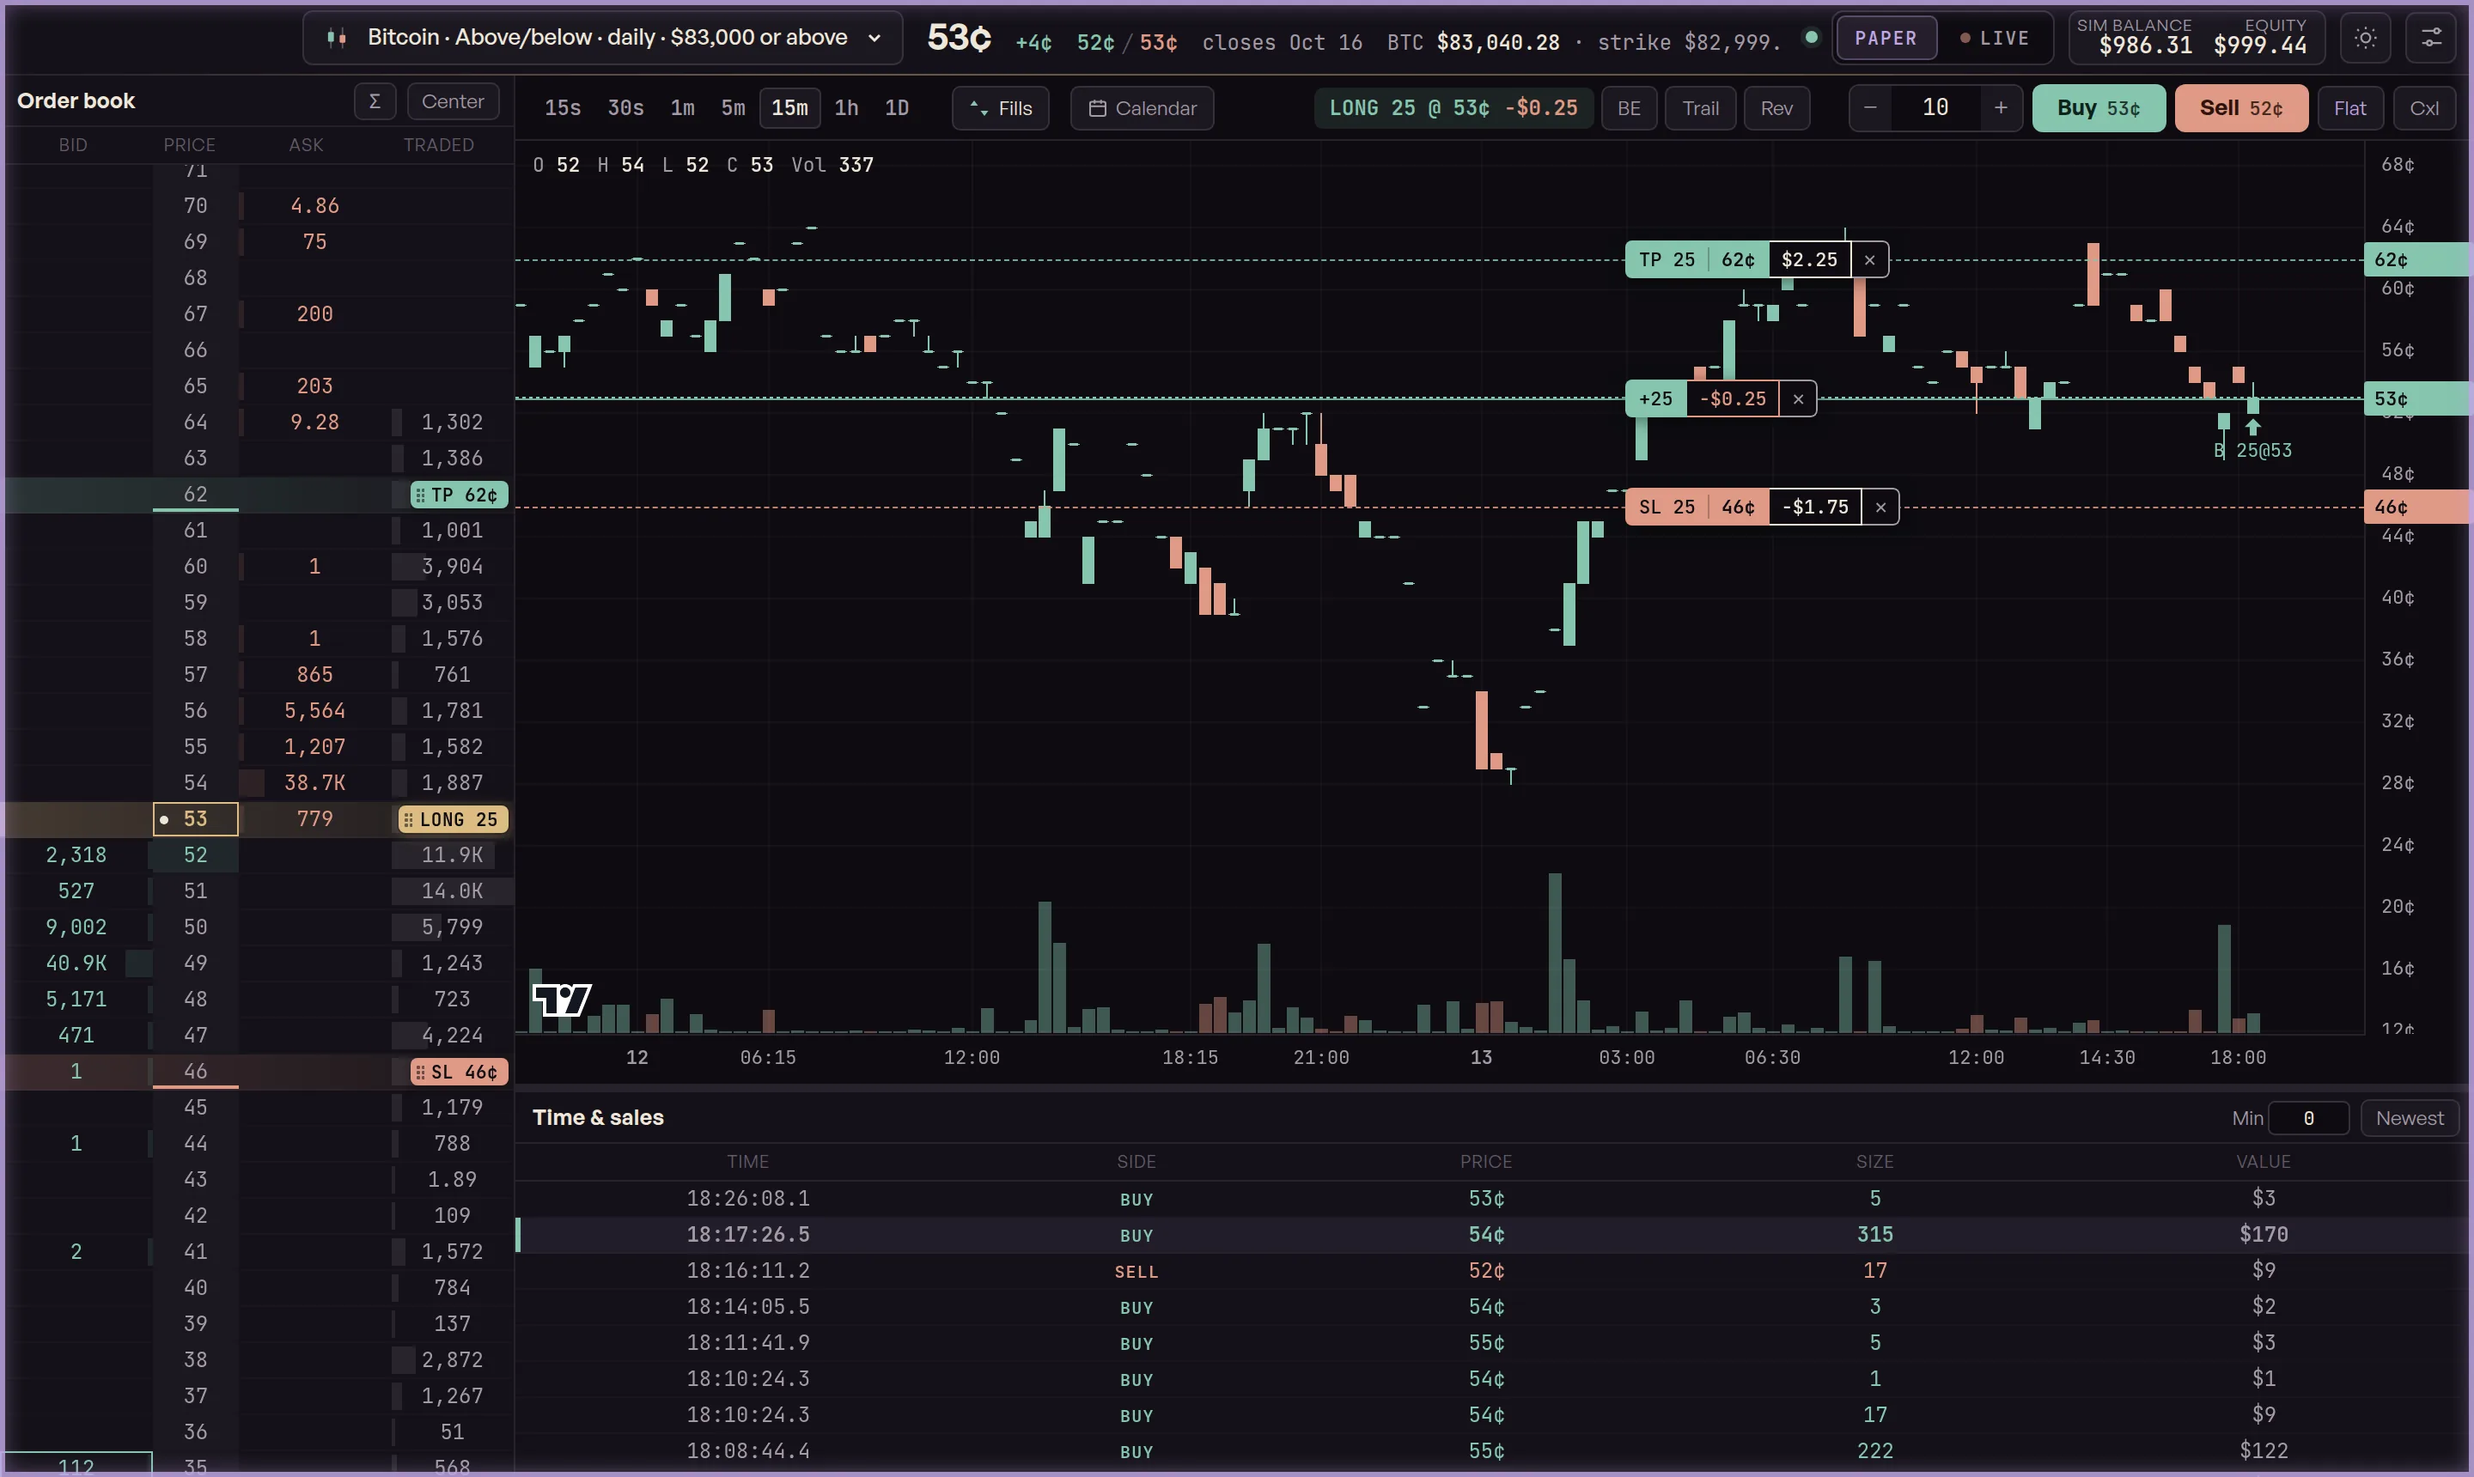
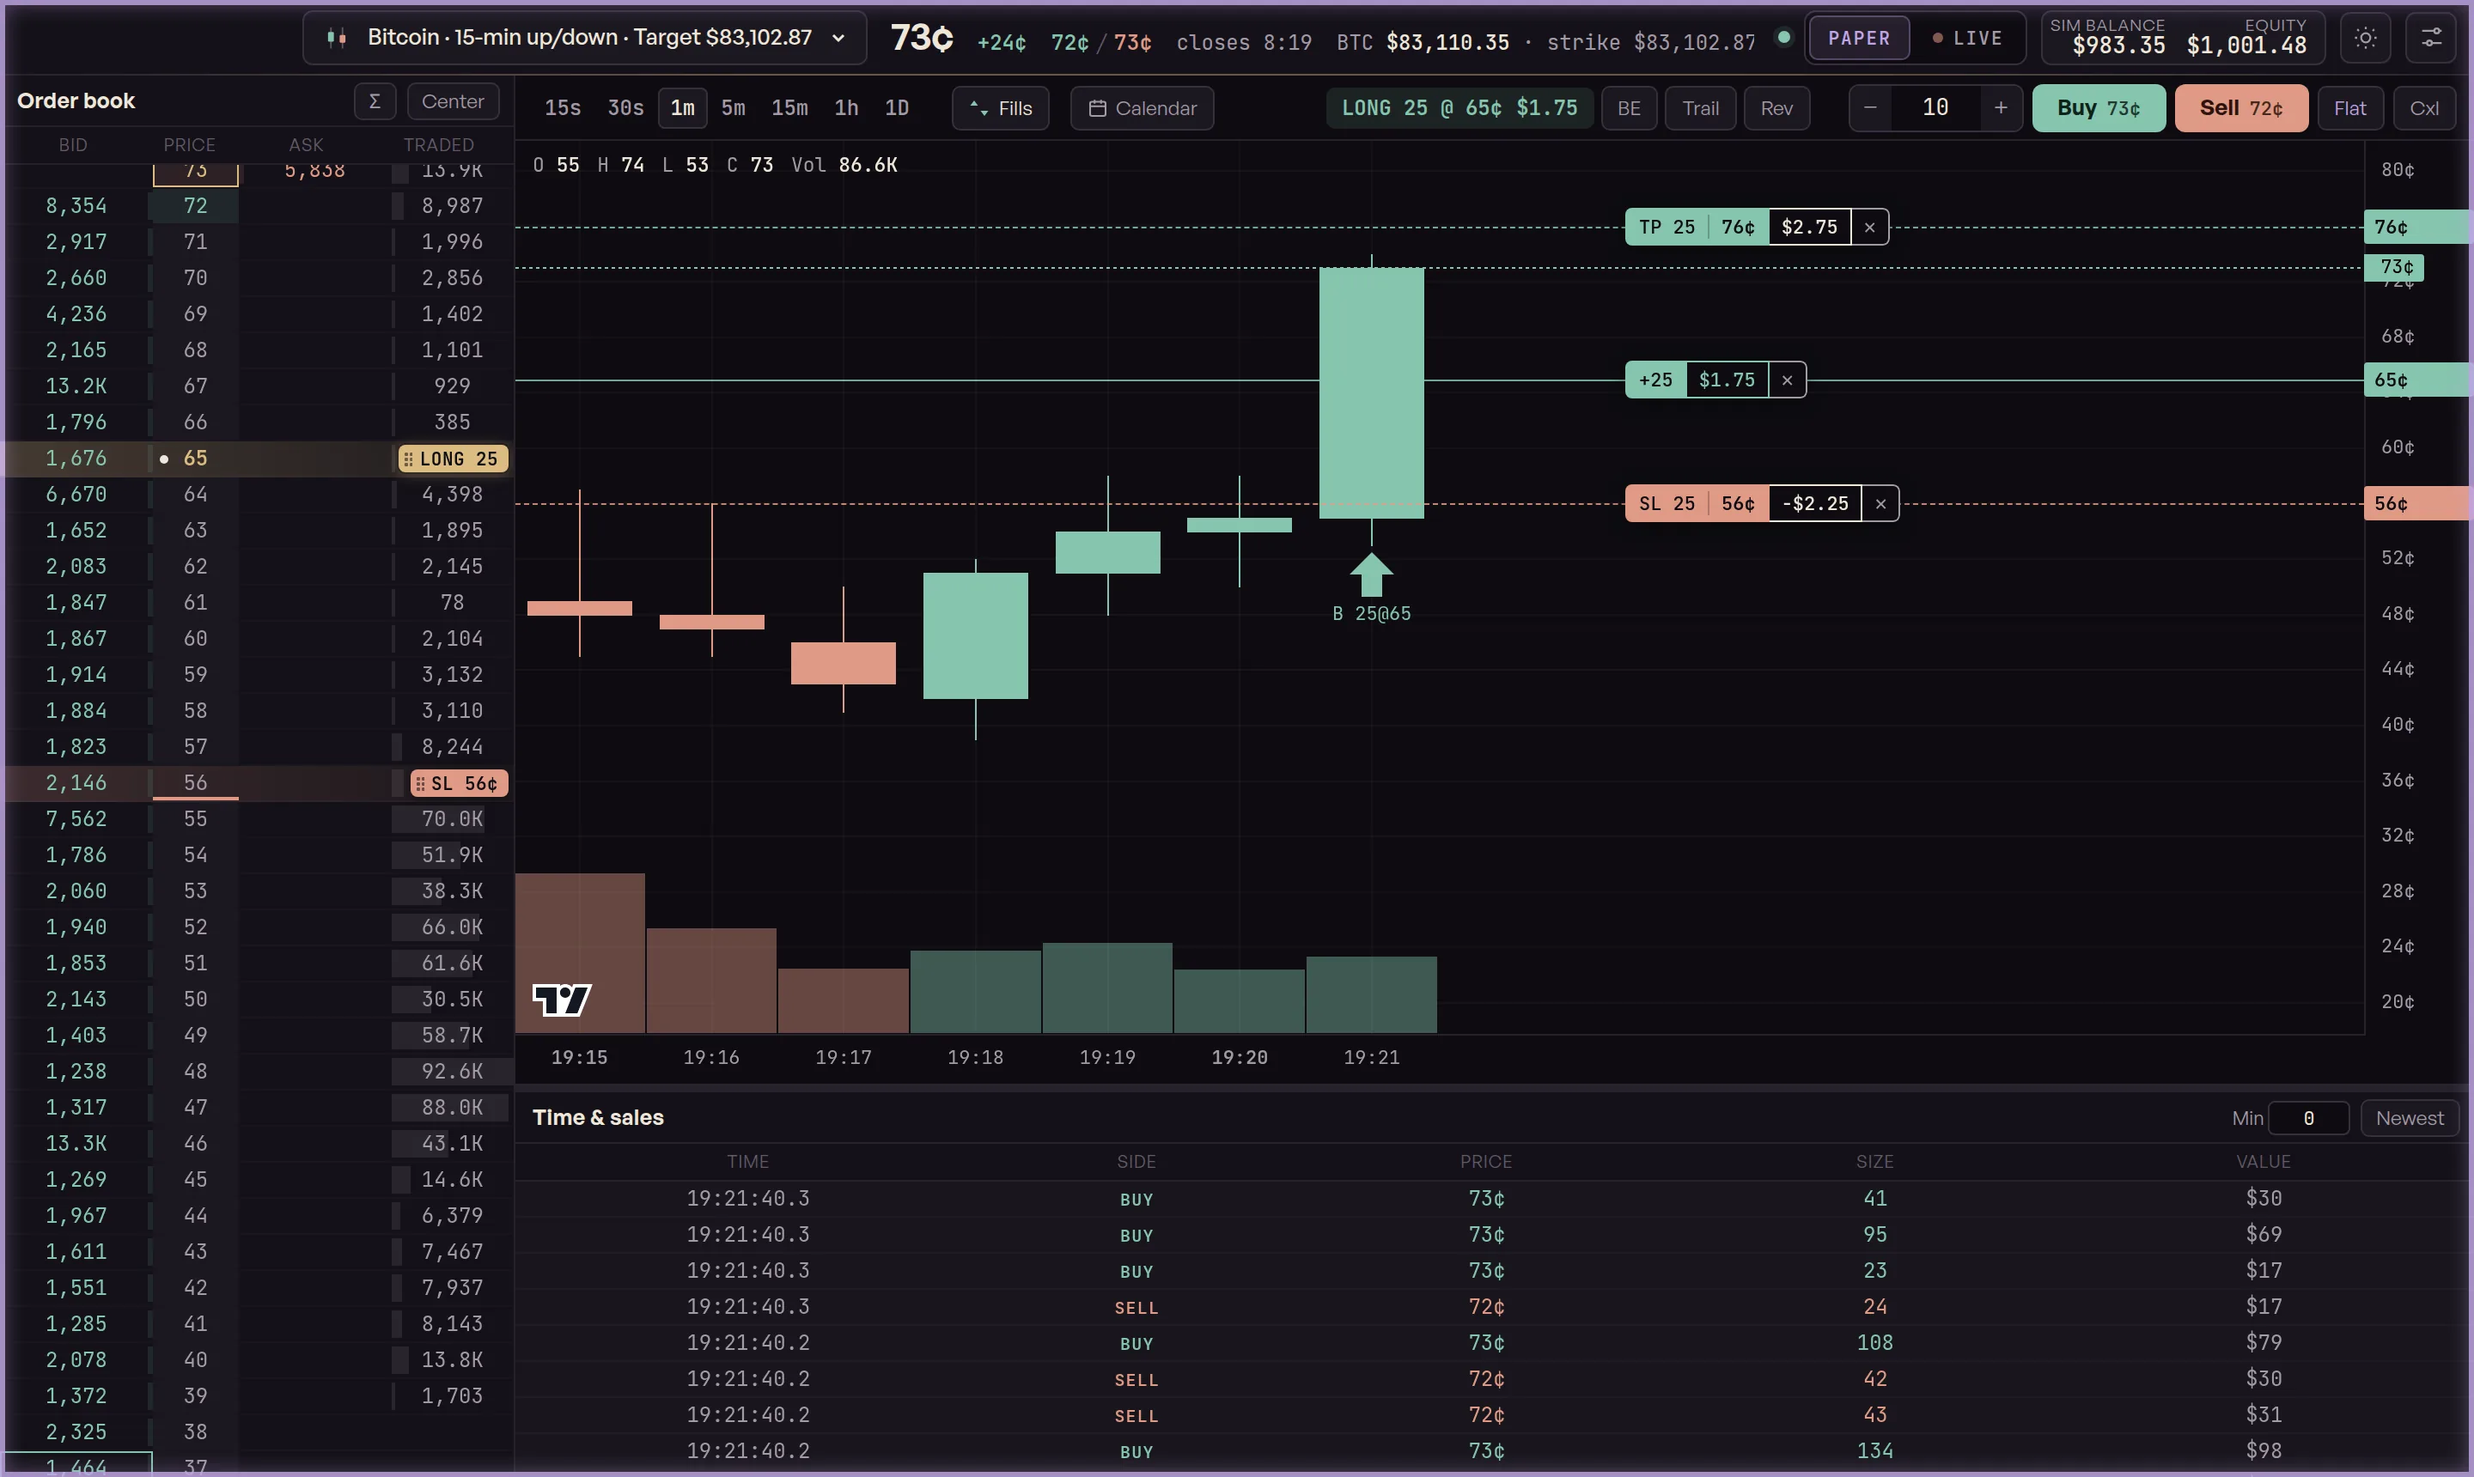
Bitcoin 15-min screenshots with position, stop and target; Windows or Mac

diff --git a/index.html b/index.html
@@ -4,9 +4,9 @@
 <meta charset="utf-8">
 <meta name="viewport" content="width=device-width, initial-scale=1">
 <title>Datahedge — a futures-style trading screen for prediction markets</title>
-<meta name="description" content="Datahedge turns prediction-market data into a pro trading screen: live chart, order book and time & sales, with drag-to-set stops and targets. Coming soon for Windows.">
+<meta name="description" content="Datahedge turns prediction-market data into a pro trading screen: live chart, order book and time & sales, with drag-to-set stops and targets. Coming soon for Windows or Mac.">
 <meta property="og:title" content="Datahedge — a futures-style trading screen for prediction markets">
-<meta property="og:description" content="Datahedge turns prediction-market data into a pro trading screen: live chart, order book and time & sales, with drag-to-set stops and targets. Coming soon for Windows.">
+<meta property="og:description" content="Datahedge turns prediction-market data into a pro trading screen: live chart, order book and time & sales, with drag-to-set stops and targets. Coming soon for Windows or Mac.">
 <meta property="og:image" content="assets/app-1440.webp">
 <meta name="theme-color" content="#0e0c11">
 <link rel="icon" type="image/png" href="assets/favicon.png">
@@ -32,7 +32,7 @@
 <main>
 <section class="hero">
   <div class="wrap">
-    <div class="pill"><i></i>Coming soon for Windows &middot; early access open</div>
+    <div class="pill"><i></i>Coming soon for Windows or Mac &middot; early access open</div>
     <h1>Trade event contracts like a <em>futures desk.</em></h1>
     <p class="lede">Datahedge turns prediction-market data into a professional trading screen: a live chart, a full order book and time &amp; sales, with orders, stops and targets placed right on the chart.</p>
     <div class="cta">
@@ -41,7 +41,7 @@
     </div>
     <p class="small">Runs on your own computer. Your exchange account and API keys stay yours.</p>
     <figure class="shot rv">
-      <div class="frame"><img src="assets/app.webp" srcset="assets/app-1440.webp 1440w, assets/app.webp 2880w" sizes="(max-width: 1240px) 100vw, 1200px" width="2880" height="1720" alt="The Datahedge trading screen in paper mode: a long position of 25 contracts at 53 cents, with a take-profit order at 62 cents and a stop-loss at 46 cents drawn on the chart and marked in the order book, plus time and sales below."></div>
+      <div class="frame"><img src="assets/app.webp" srcset="assets/app-1440.webp 1440w, assets/app.webp 2880w" sizes="(max-width: 1240px) 100vw, 1200px" width="2880" height="1720" alt="The Datahedge trading screen in paper mode: a Bitcoin 15-minute up/down market with a long position of 25 contracts at 65 cents, a take-profit order at 76 cents and a stop-loss at 56 cents drawn on the chart and marked in the order book, plus time and sales below."></div>
       <figcaption class="cap"><span><b style="background:var(--lav)"></b>Lavender ring = paper money</span><span><b style="background:var(--live)"></b>Green ring = real money</span></figcaption>
     </figure>
   </div>
@@ -59,7 +59,7 @@
         <li><svg width="18" height="18" viewBox="0 0 18 18" fill="none" aria-hidden="true"><circle cx="9" cy="9" r="8.25" stroke="#362f3d"/><path d="M5.5 9.2l2.3 2.3 4.7-5" stroke="#86c5ae" stroke-width="1.6" stroke-linecap="round" stroke-linejoin="round"/></svg><span><strong>Fills on the chart</strong>See exactly where you got in and out.</span></li>
       </ul>
     </div>
-    <div class="media rv"><img src="assets/chart.webp" width="1276" height="840" loading="lazy" alt="Close-up of the Datahedge chart with a position line at 53 cents, a take-profit line at 62 cents and a stop-loss line at 46 cents, each showing its profit or loss."></div>
+    <div class="media rv"><img src="assets/chart.webp" width="1660" height="680" loading="lazy" alt="Close-up of the Datahedge chart with a position line at 65 cents, a take-profit line at 76 cents and a stop-loss line at 56 cents, each showing its profit or loss."></div>
   </div>
 </section>
 
@@ -75,7 +75,7 @@
         <li><svg width="18" height="18" viewBox="0 0 18 18" fill="none" aria-hidden="true"><circle cx="9" cy="9" r="8.25" stroke="#362f3d"/><path d="M5.5 9.2l2.3 2.3 4.7-5" stroke="#86c5ae" stroke-width="1.6" stroke-linecap="round" stroke-linejoin="round"/></svg><span><strong>Streaming data</strong>Connect your keys and the book and trades update the moment they change.</span></li>
       </ul>
     </div>
-    <div class="media rv" style="max-width:340px;justify-self:center"><img src="assets/book.webp" width="580" height="1220" loading="lazy" alt="The Datahedge order book with bid size, price, ask size and traded volume at each level, marking the long position, the take-profit and the stop-loss at their prices."></div>
+    <div class="media rv" style="max-width:340px;justify-self:center"><img src="assets/book.webp" width="580" height="1070" loading="lazy" alt="The Datahedge order book with bid size, price, ask size and traded volume at each level, marking the long position at 65 cents and the stop-loss at 56 cents."></div>
   </div>
 </section>
 

diff --git a/build.py b/build.py
@@ -59,10 +59,10 @@ CHECK = '<svg width="18" height="18" viewBox="0 0 18 18" fill="none" aria-hidden
 def li(t, d): return f'<li>{CHECK}<span><strong>{t}</strong>{d}</span></li>'
 
 index = head("Datahedge — a futures-style trading screen for prediction markets",
-             "Datahedge turns prediction-market data into a pro trading screen: live chart, order book and time & sales, with drag-to-set stops and targets. Coming soon for Windows.") + f'''<main>
+             "Datahedge turns prediction-market data into a pro trading screen: live chart, order book and time & sales, with drag-to-set stops and targets. Coming soon for Windows or Mac.") + f'''<main>
 <section class="hero">
   <div class="wrap">
-    <div class="pill"><i></i>Coming soon for Windows &middot; early access open</div>
+    <div class="pill"><i></i>Coming soon for Windows or Mac &middot; early access open</div>
     <h1>Trade event contracts like a <em>futures desk.</em></h1>
     <p class="lede">Datahedge turns prediction-market data into a professional trading screen: a live chart, a full order book and time &amp; sales, with orders, stops and targets placed right on the chart.</p>
     <div class="cta">
@@ -71,7 +71,7 @@ index = head("Datahedge — a futures-style trading screen for prediction market
     </div>
     <p class="small">Runs on your own computer. Your exchange account and API keys stay yours.</p>
     <figure class="shot rv">
-      <div class="frame"><img src="assets/app.webp" srcset="assets/app-1440.webp 1440w, assets/app.webp 2880w" sizes="(max-width: 1240px) 100vw, 1200px" width="2880" height="1720" alt="The Datahedge trading screen in paper mode: a long position of 25 contracts at 53 cents, with a take-profit order at 62 cents and a stop-loss at 46 cents drawn on the chart and marked in the order book, plus time and sales below."></div>
+      <div class="frame"><img src="assets/app.webp" srcset="assets/app-1440.webp 1440w, assets/app.webp 2880w" sizes="(max-width: 1240px) 100vw, 1200px" width="2880" height="1720" alt="The Datahedge trading screen in paper mode: a Bitcoin 15-minute up/down market with a long position of 25 contracts at 65 cents, a take-profit order at 76 cents and a stop-loss at 56 cents drawn on the chart and marked in the order book, plus time and sales below."></div>
       <figcaption class="cap"><span><b style="background:var(--lav)"></b>Lavender ring = paper money</span><span><b style="background:var(--live)"></b>Green ring = real money</span></figcaption>
     </figure>
   </div>
@@ -89,7 +89,7 @@ index = head("Datahedge — a futures-style trading screen for prediction market
         {li("Fills on the chart", "See exactly where you got in and out.")}
       </ul>
     </div>
-    <div class="media rv"><img src="assets/chart.webp" width="1276" height="840" loading="lazy" alt="Close-up of the Datahedge chart with a position line at 53 cents, a take-profit line at 62 cents and a stop-loss line at 46 cents, each showing its profit or loss."></div>
+    <div class="media rv"><img src="assets/chart.webp" width="1660" height="680" loading="lazy" alt="Close-up of the Datahedge chart with a position line at 65 cents, a take-profit line at 76 cents and a stop-loss line at 56 cents, each showing its profit or loss."></div>
   </div>
 </section>
 
@@ -105,7 +105,7 @@ index = head("Datahedge — a futures-style trading screen for prediction market
         {li("Streaming data", "Connect your keys and the book and trades update the moment they change.")}
       </ul>
     </div>
-    <div class="media rv" style="max-width:340px;justify-self:center"><img src="assets/book.webp" width="580" height="1220" loading="lazy" alt="The Datahedge order book with bid size, price, ask size and traded volume at each level, marking the long position, the take-profit and the stop-loss at their prices."></div>
+    <div class="media rv" style="max-width:340px;justify-self:center"><img src="assets/book.webp" width="580" height="1070" loading="lazy" alt="The Datahedge order book with bid size, price, ask size and traded volume at each level, marking the long position at 65 cents and the stop-loss at 56 cents."></div>
   </div>
 </section>
 
